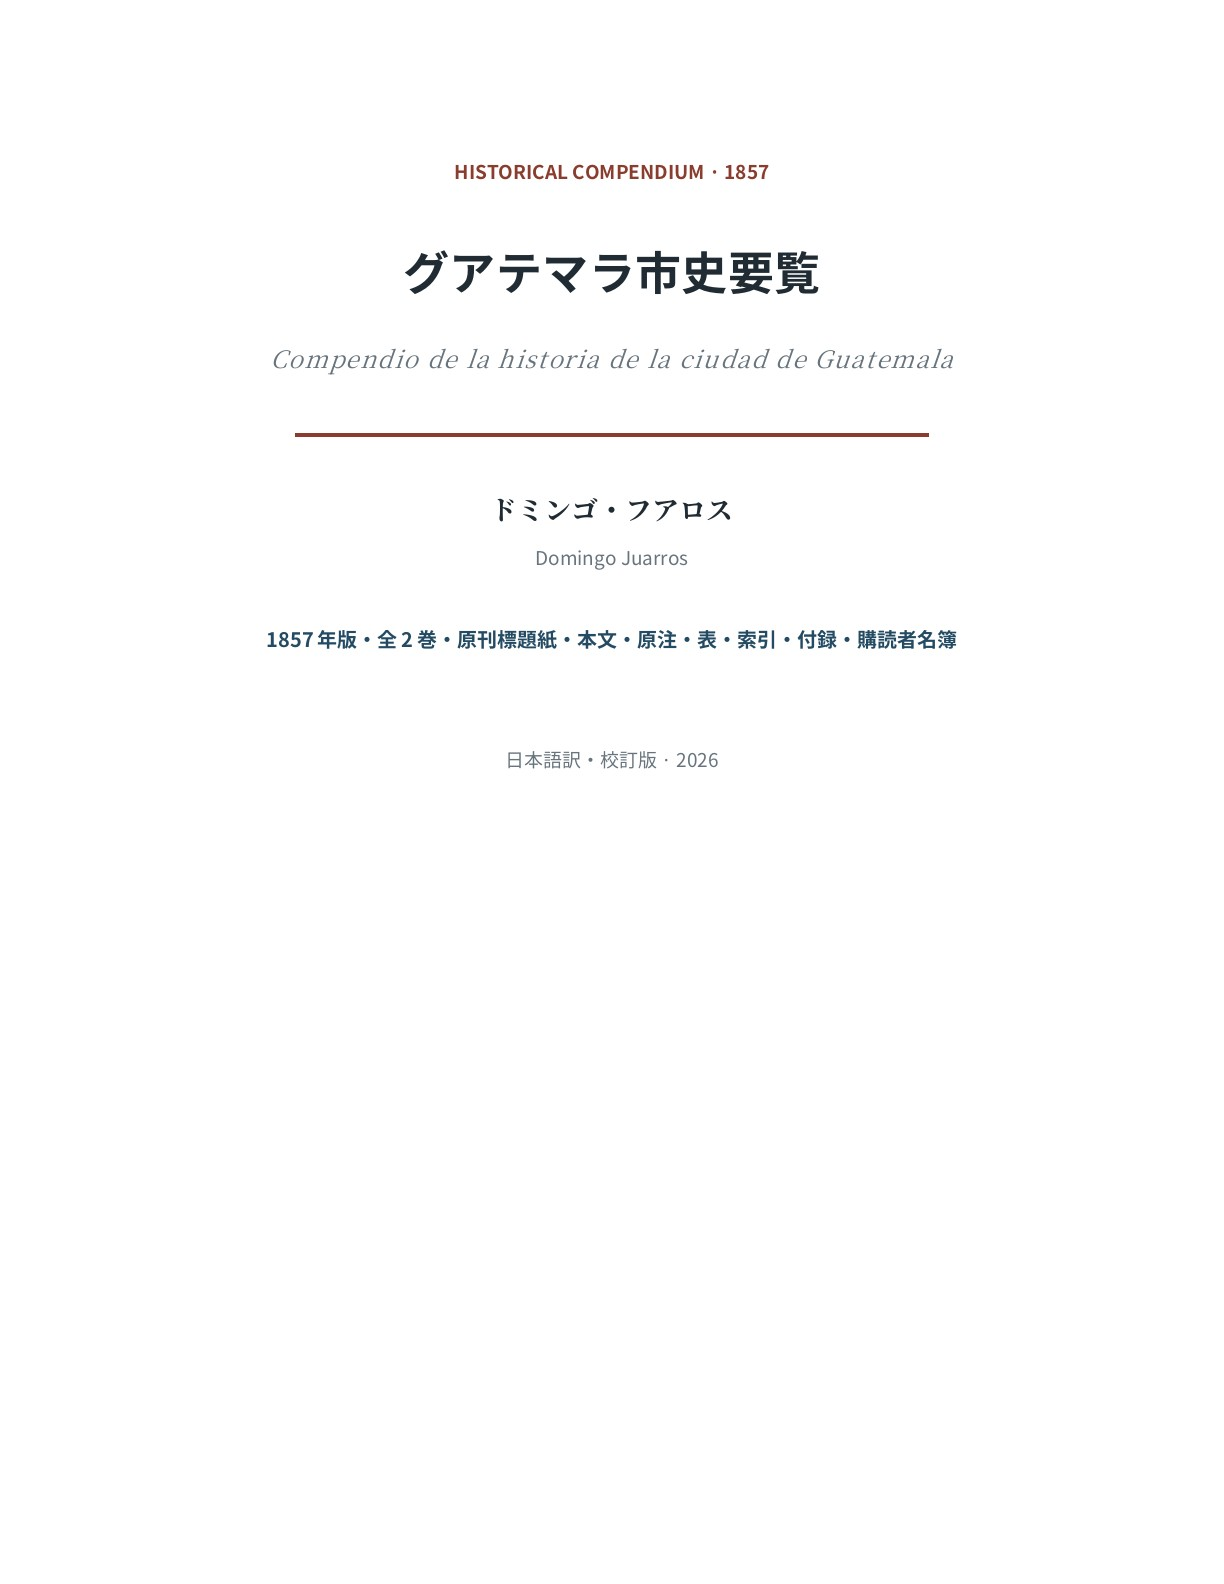
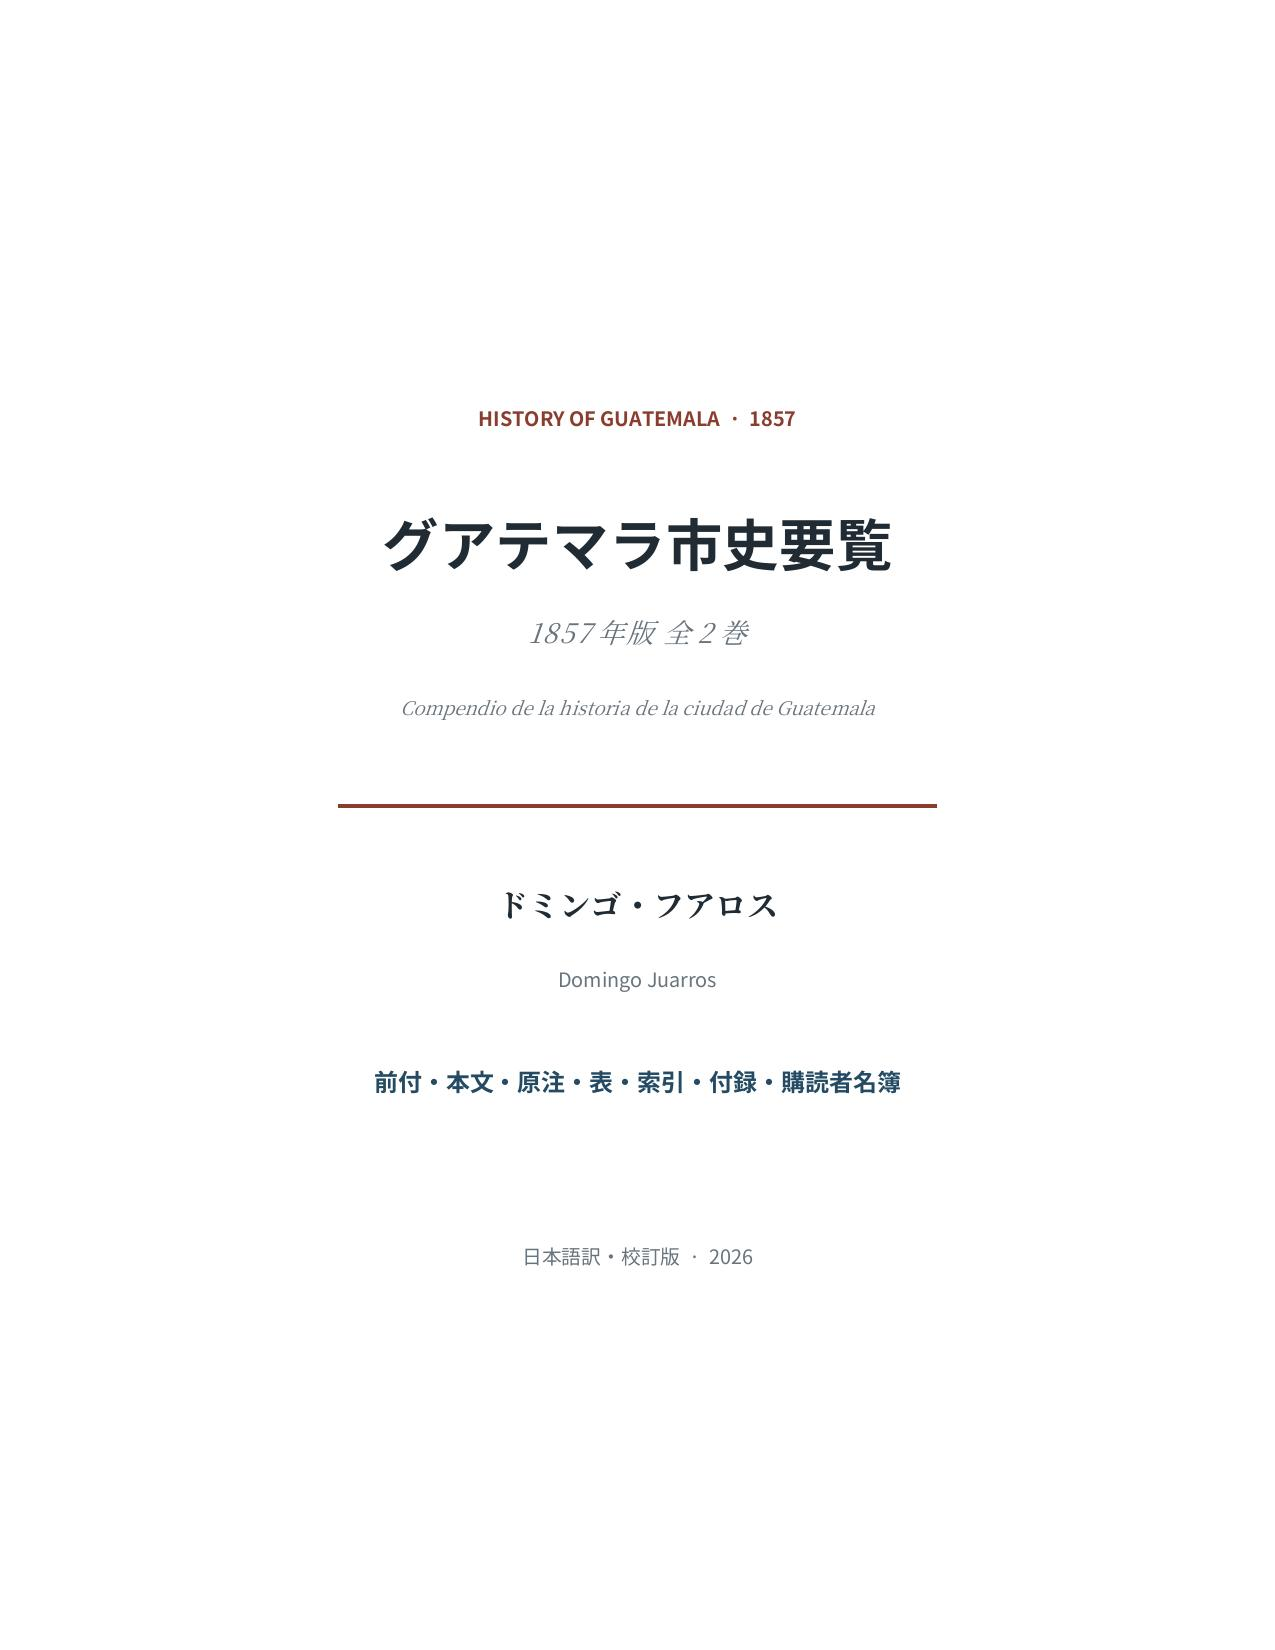
Publish approved Juarros revised PDF and EPUB after archive verification

diff --git a/.juarros-transfer.py b/.juarros-transfer.py
@@ -1,0 +1,32 @@
+import hashlib, json, os, pathlib, subprocess
+assert os.environ.get('GITHUB_ACTIONS')=='true'
+REPO='takochanchan/takochanchan.github.io'
+assert os.environ['GITHUB_REPOSITORY']==REPO
+q=json.loads(pathlib.Path('.juarros-public-request.json').read_text())
+assert q['verified_archive_commit']=='ec8f332159971ec03b6dd0bbb05b767a68444484'
+root=pathlib.Path('juarros-stage')
+def run(*args): return subprocess.run(args,check=True)
+def digest(p): return hashlib.sha256(p.read_bytes()).hexdigest()
+expected={x['filename']:x for x in q['assets']}
+for name,a in expected.items():
+    p=root/name
+    assert p.stat().st_size==a['size'] and digest(p)==a['sha256']
+    run('gh','release','upload','publications-current','--repo',REPO,'--clobber',str(p))
+verify=root/'verify';verify.mkdir(exist_ok=True)
+for name,a in expected.items():
+    run('gh','release','download','publications-current','--repo',REPO,'--pattern',name,'--dir',str(verify))
+    p=verify/name
+    assert p.stat().st_size==a['size'] and digest(p)==a['sha256']
+# Re-read shared checksums immediately before replacing only these two lines.
+run('gh','release','download','publications-current','--repo',REPO,'--pattern','SHA256SUMS.txt','--dir',str(root))
+cs=root/'SHA256SUMS.txt'
+before=cs.read_text().splitlines()
+other=[x for x in before if x.split() and x.split()[-1].lstrip('*') not in expected]
+cs.write_text('\n'.join(other+[f"{a['sha256']}  {name}" for name,a in expected.items()])+'\n')
+run('gh','release','upload','publications-current','--repo',REPO,'--clobber',str(cs))
+run('gh','release','download','publications-current','--repo',REPO,'--pattern','SHA256SUMS.txt','--dir',str(verify))
+assert (verify/'SHA256SUMS.txt').read_bytes()==cs.read_bytes()
+assets=json.loads(subprocess.check_output(['gh','release','view','publications-current','--repo',REPO,'--json','assets']))['assets']
+records=[x for x in assets if x['name'] in expected]
+assert len(records)==2
+pathlib.Path('juarros-public-verification.json').write_text(json.dumps({'verified_archive_commit':q['verified_archive_commit'],'assets':q['assets'],'release_records':records,'all_downloaded_bytes_verified':True,'unrelated_checksum_lines_preserved':len(other)},indent=2)+'\n')
